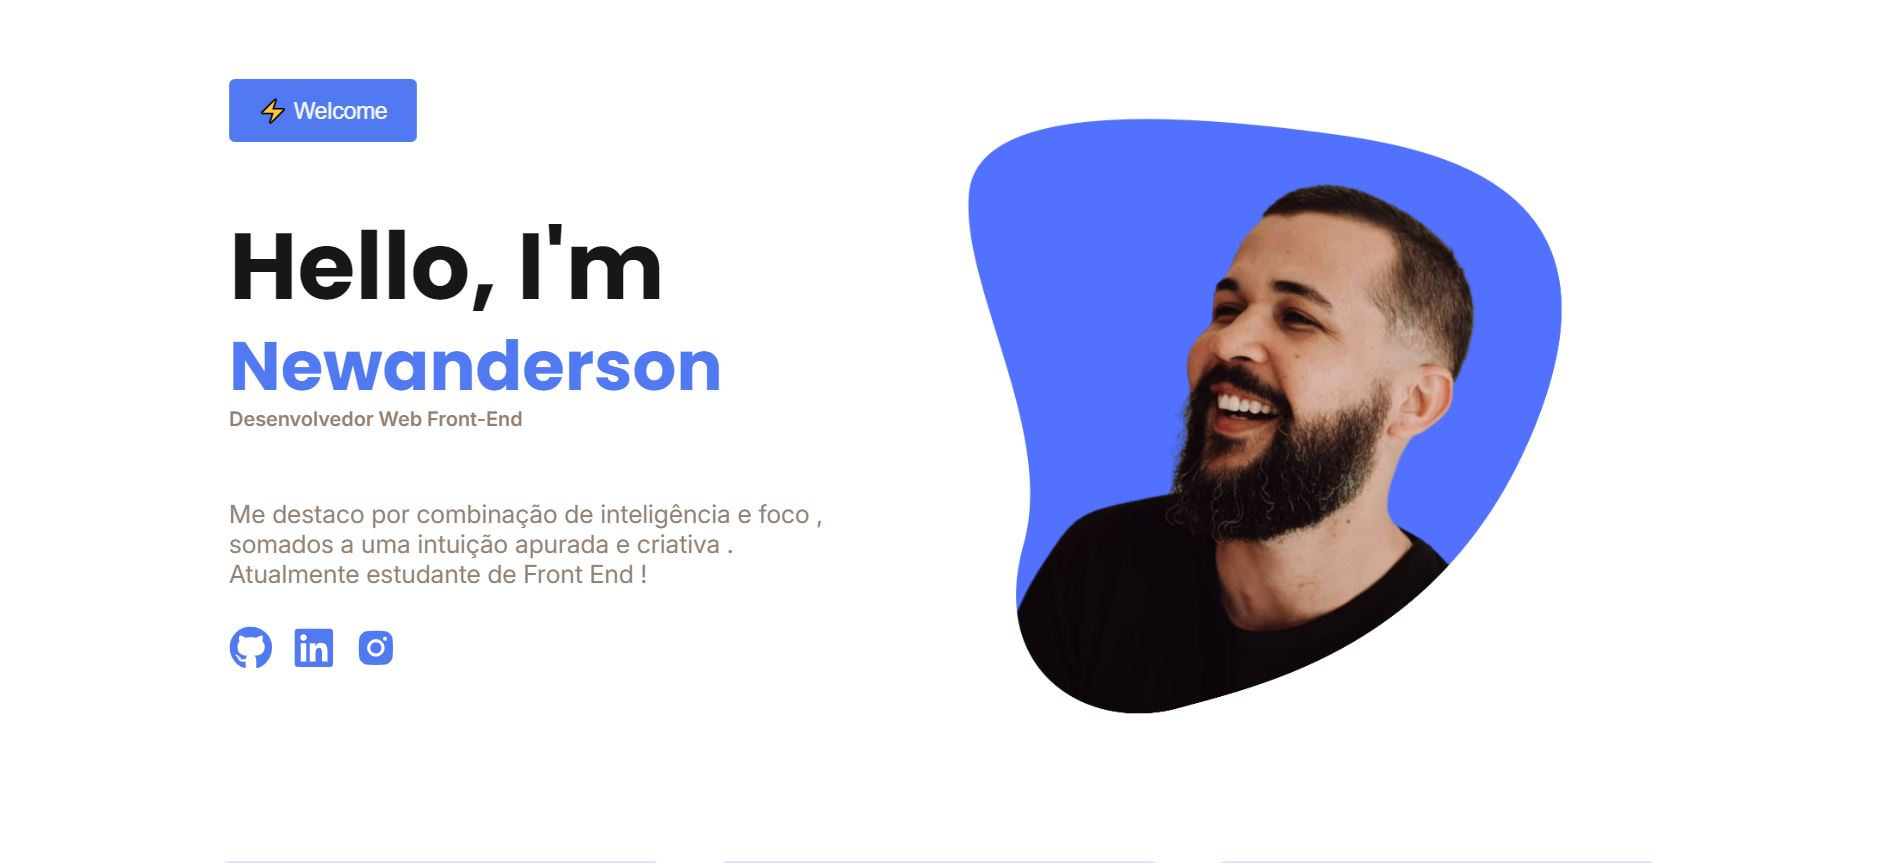
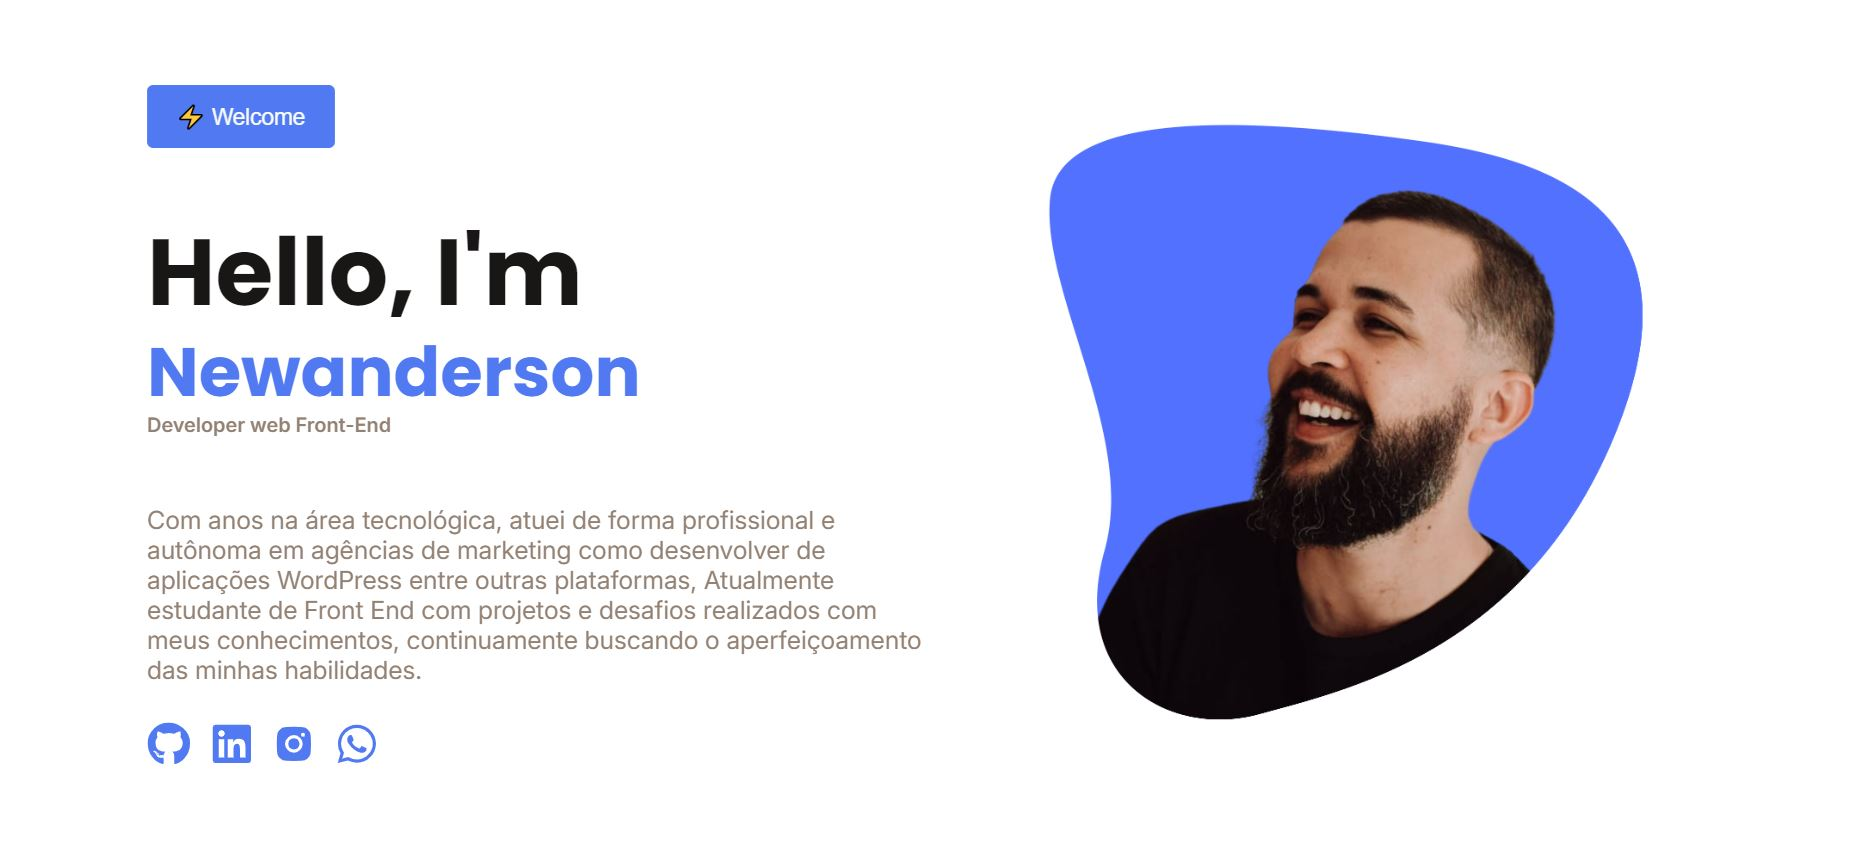
ok

diff --git a/src/componentes/cards/Cards.js b/src/componentes/cards/Cards.js
@@ -47,7 +47,7 @@ const Cards = () =>{
 
             <div style={{width:"350px"}} className="box">
              <h1 className="title"> My portfolio</h1>
-             <p className="grafo">Lorem ipsum dolor sit amet, consectetur adipiscing elit. Etiam eget ligula eu lectus lobortis condimentum. Aliquam nonummy auctor massa.  </p>
+             <p className="grafo">Desenvolvido com muitas criatividade e planejamento , meu portifólio foi criado como um desafio partículas de aperfeiçoar minhas habilidades e novos recursos para uma aplicação responsiva .  </p>
 
 
              <div className="cards-icons">
@@ -79,7 +79,7 @@ const Cards = () =>{
 
         <div style={{width:"350px"}} className="box">
              <h1 className="title">Projeto ativos</h1>
-             <p className="grafo">Lorem ipsum dolor sit amet, consectetur adipiscing elit. Etiam eget ligula eu lectus lobortis condimentum. Aliquam nonummy auctor massa.  </p>
+             <p className="grafo">Projeto ativos como forma de gratificação pela  parceria que durou anos, que me proporcionou o crescimento pessoal e profissional , projeto ReactJs e Tailwind Css .  </p>
 
 
              <div className="cards-icons">
@@ -99,7 +99,7 @@ const Cards = () =>{
 
     <motion.article
     
-            //DASBOARD
+            //DAHSBOARD
 
             initial={{ y:-100, opacity:0}}
             whileInView={{ y:0, opacity:1 }}
@@ -111,8 +111,7 @@ const Cards = () =>{
 
         <div style={{width:"350px"}} className="box">
              <h1 className="title">Dashboard</h1>
-             <p className="grafo">Lorem
-                 ipsum dolor sit amet, consectetur adipiscing elit. Etiam eget ligula eu lectus lobortis condimentum. Aliquam nonummy auctor massa.  </p>
+             <p className="grafo">Painel de controle desenvolvido com Reactjs , otimizar de forma fácil e fluida tudo que usuário necessita em plataforma de vendas , pensada unicamente na experiência dos usuários.  </p>
 
 
              <div className="cards-icons">
@@ -144,14 +143,15 @@ const Cards = () =>{
 
         <div style={{width:"350px"}} className="box">
              <h1 className="title">Projeto Chamados</h1>
-             <p className="grafo">Lorem ipsum dolor sit amet, consectetur adipiscing elit. Etiam eget ligula eu lectus lobortis condimentum. Aliquam nonummy auctor massa.  </p>
+             <p className="grafo">Possue cadastro de novo usuário, cadastro de novos clientes e abertura de chamados com espaços para adicionar informações para cada cliente ,Firebase para 
+            Autenticação e armazenamento de dados .  </p>
 
 
              <div className="cards-icons">
              
              
-                <a href="https://cnpj-calls-project.netlify.app/"> <FaGithub /></a>
-                <a href="https://github.com/Newanderson/projeto-chamadas"><FaLink /></a>
+                <a href= "https://github.com/Newanderson/projeto-chamadas"><FaGithub /></a>
+                <a href="https://cnpj-calls-project.netlify.app/"><FaLink /></a>
                
 
               
@@ -176,7 +176,9 @@ const Cards = () =>{
 
         <div style={{width:"350px"}} className="box">
              <h1 className="title">Lista de tarefas</h1>
-             <p className="grafo">Lorem ipsum dolor sit amet, consectetur adipiscing elit. Etiam eget ligula eu lectus lobortis condimentum. Aliquam nonummy auctor massa.  </p>
+             <p className="grafo"> As tarefas que podem ser editadas e excluídas,
+                 mudar o status para concluída ,Firebase e seu ecossistema para 
+            Autenticação , cadastro de usuário e  armazenamento de dados .  </p>
 
 
              <div className="cards-icons">
@@ -208,7 +210,8 @@ const Cards = () =>{
 
         <div style={{width:"350px"}} className="box">
              <h1 className="title">Projeto login</h1>
-             <p className="grafo">Lorem ipsum dolor sit amet, consectetur adipiscing elit. Etiam eget ligula eu lectus lobortis condimentum. Aliquam nonummy auctor massa.  </p>
+             <p className="grafo">Projeto Login desenvolvido apenas em HTML e CSS , desafiou minhas habilidades para uma aplicação mais raiz , procurando de forma desenvolver algo fluido e 100% responsiva .
+             </p>
 
 
              <div className="cards-icons">

diff --git a/src/componentes/home/Home.js b/src/componentes/home/Home.js
@@ -8,6 +8,7 @@ import { FaGithub } from "react-icons/fa";
 import { FaLinkedin } from "react-icons/fa";
 import { AiFillInstagram } from "react-icons/ai";
 import { motion } from "framer-motion"
+import { FaWhatsapp } from "react-icons/fa";
 
 const Home = () =>{
     return(
@@ -57,7 +58,7 @@ const Home = () =>{
                         className="hello2"> Newanderson</motion.h2>
                         <p className="dev"> Developer web Front-End </p>
 
-                        <p className="lorem"> Me destaco por combinação de inteligência e foco , somados a uma intuição apurada e criativa . Atualmente estudante de Front End !</p>
+                        <p className="lorem"> Com anos na área tecnológica, atuei de forma profissional e autônoma em agências de marketing como desenvolver de aplicações WordPress entre outras plataformas, Atualmente estudante de Front End com projetos e desafios realizados com meus conhecimentos, continuamente buscando o aperfeiçoamento das minhas habilidades.</p>
                         </motion.div>    
 
                     <motion.div 
@@ -70,6 +71,7 @@ const Home = () =>{
                         <div><a href="https://www.linkedin.com/in/new-souza-7583a6297/"><FaLinkedin /></a></div>
                     
                         <div><a href="https://www.instagram.com/newsouz/"><AiFillInstagram /></a></div>
+                        <div><a href="https://w.app/ufRblB"><FaWhatsapp /></a></div>
                     </motion.div>
              </div>
 

diff --git a/src/componentes/cards/Cards.css b/src/componentes/cards/Cards.css
@@ -26,7 +26,7 @@
 
 .cards{
     width: 350px;
-    height: 360px;
+    height: 410px;
     border: 2px solid #5079F2;
     border-radius: 8px;
     transition: 0.3s;
@@ -52,17 +52,20 @@
 }
 
 .box{
-    width: 350px;
+   
     padding: 15px;
 }
 
 .grafo{
+    width: 300px;
     padding-top: 8px;
-    padding-bottom: 6px;
+    padding-bottom: 15px;
+    
+    padding-left: 10px;
 }
 
 .cards-icons{
-    padding-top: 15px;
+    padding-top: 25px;
     font-size: 20px;
     display: flex;
     justify-content:flex-start;
@@ -82,13 +85,18 @@
     .secao-cards{
         gap: 15px;
     }
+
+    .lorem{
+        width: 320px;
+    }
     
     .cards{
         
         gap: 5px;
         align-items: center;
         justify-content:center;
-        width: 300px;   
+        width: 300px;
+        height: 410px;   
     }
 
     .cards img{
@@ -97,7 +105,7 @@
     }
 
     .grafo {
-        width: 280px;
+        width: 260px;
 
     }
         

diff --git a/src/componentes/footer/Footer.js b/src/componentes/footer/Footer.js
@@ -6,6 +6,7 @@ import {motion} from "framer-motion"
 import { FaGithub } from "react-icons/fa";
 import { FaLinkedin } from "react-icons/fa";
 import { AiFillInstagram } from "react-icons/ai";
+import { FaWhatsapp } from "react-icons/fa";
 
 const Footer = () =>{
     return(
@@ -81,6 +82,7 @@ const Footer = () =>{
                     <a href="https://www.linkedin.com/in/new-souza-7583a6297/"><FaLinkedin /></a>
                             
                     <a href="https://www.instagram.com/newsouz/"><AiFillInstagram /></a>
+                    <a href="https://w.app/ufRblB"><FaWhatsapp /></a>
 
                     </motion.div>
                     

diff --git a/src/componentes/home/Home.css b/src/componentes/home/Home.css
@@ -28,7 +28,7 @@
 
 .text{
    color:#FBFEFB ;
-   width: 500px;
+   width: 700px;
 }
 
 .dev{
@@ -152,6 +152,14 @@ a{
        display: none;
    }
    
+   .icons{
+      width: 24px;
+      gap: 5px;
+   }
+
+   .lorem{
+      font-size: 15px;
+   }
       
      
    
